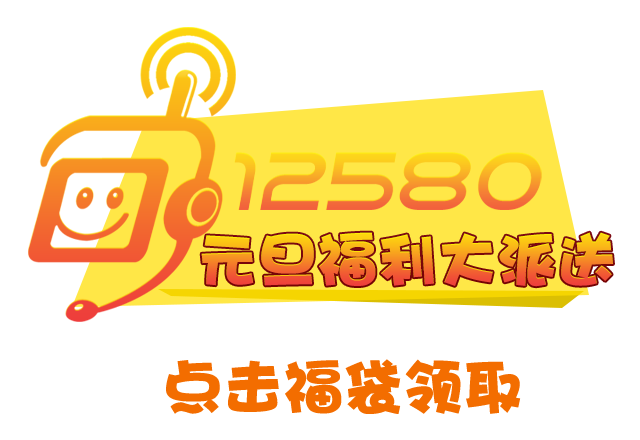
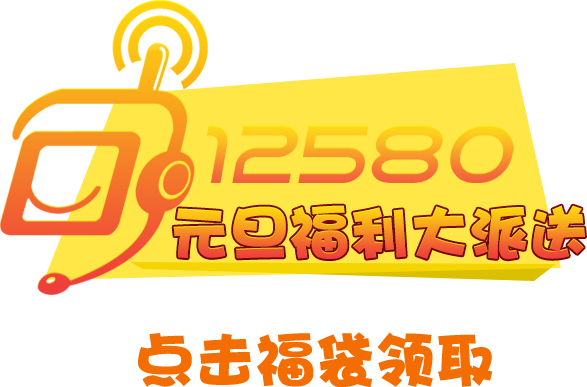
bond

diff --git a/weixin/index.html b/weixin/index.html
@@ -1,8 +1,8 @@
 <!DOCTYPE html>
 <html>
 <head><meta http-equiv="Content-Type" content="text/html; charset=UTF-8">
-    <title>Falling Leaves — Using CSS Animations and Transforms</title>
-    <meta name="viewport" id="viewport" content="width=device-width,initial-scale=1.0,maximum-scale=1.0,user-scalable=no">
+    <title>12580-元旦福利大派送</title>
+    <meta content="width=device-width, initial-scale=1.0, maximum-scale=1.0, user-scalable=0;" name="viewport" />
     <link rel="stylesheet" type="text/css" href="res/demo.css">
     <link rel="stylesheet" type="text/css" href="res/style.css">
     <!-- The leaves.css file animates the leaves -->
@@ -18,9 +18,16 @@
   }
     .title{
        position:absolute;
-       top:-10px;
-       z-index: 99;
+       top:5px;
+       z-index: 88;
        text-align: center;
+       width: 100%;
+
+}
+.eye{
+       position:absolute;
+       top:2px;
+       z-index: 99;
        width: 100%;
 
 }
@@ -28,7 +35,8 @@
 
    </head>
   <body>
-<div class="title"><img src="res/images/title.png" width=98% /></div>
+    <div class="eye"><img class="eye" src="res/images/eye.gif" width=96%></div>
+<div class="title"><img src="res/images/title.png" width=96% /></div>
     <div id="container" class="container">
 
       <!-- The container is dynamically populated using the init function in leaves.js -->

diff --git a/weixin/res/style.css b/weixin/res/style.css
@@ -14,9 +14,9 @@
 	-ms-transform: scale(1);
 	-o-transform: scale(1);
 	transform: scale(1);
-	-webkit-transition: all 5s linear 0s;
-	-moz-transition: all 5s linear 0s;
-	transition: all 5s linear 0s;
+	-webkit-transition: all 8s linear 0s;
+	-moz-transition: all 8s linear 0s;
+	transition: all 8s linear 0s;
 	cursor: pointer;
 }
 
@@ -53,11 +53,11 @@
 	position: absolute;
 	top: 0;	
 	z-index: 11;
-	-webkit-animation: jump 1s infinite;
-	-moz-animation: jump 1s infinite;
-	-o-animation: jump 1s infinite;
-	-ms-animation: jump 1s infinite;
-	animation: jump 1s infinite;
+	-webkit-animation: jump 2s infinite;
+	-moz-animation: jump 2s infinite;
+	-o-animation: jump 2s infinite;
+	-ms-animation: jump 2s infinite;
+	animation: jump 2s infinite;
 	cursor: pointer;
 }
 
@@ -99,11 +99,11 @@
 	-ms-transform: scaleY(.3);
 	-o-transform: scaleY(.3);
 	transform: scaleY(.3);
-	-webkit-animation: shrink 1s infinite;
-	-moz-animation: shrink 1s infinite;
-	-o-animation: shrink 1s infinite;
-	-ms-animation: shrink 1s infinite;
-	animation: shrink 1s infinite;
+	-webkit-animation: shrink 2s infinite;
+	-moz-animation: shrink 2s infinite;
+	-o-animation: shrink 2s infinite;
+	-ms-animation: shrink 2s infinite;
+	animation: shrink 2s infinite;
 }
 
 /* Animations */
